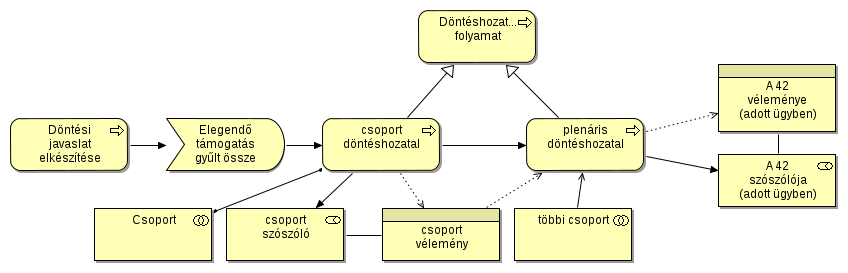
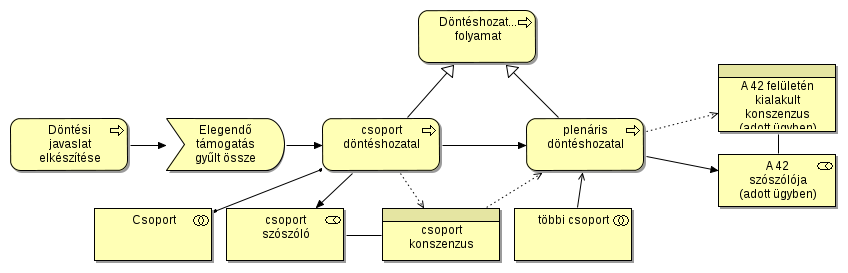
a 42 egyeztetett véleménye

Changed region(s): [[0.8585, 0.293, 0.9811, 0.4689], [0.4599, 0.8791, 0.5825, 0.9084]]

diff --git a/html_out/index.html b/html_out/index.html
@@ -170,8 +170,8 @@
                               <a id="b55e1022"></a>többi csoport
                            </td>
                            <td valign="top">A 42 csoportokból áll. Mindenkit szívesen látunk, bármit gondol is a világról. Ahhoz,
-                              hogy egy javaslatból a 42 egyeztetett véleménye legyen, szükséges az, hogy mindenkinek,
-                              minden csoportnak meg legyen a lehetősége ezt a véleményt formálni.
+                              hogy egy javaslatból a 42 felületén kialakult konszenzus legyen, szükséges az, hogy
+                              mindenkinek, minden csoportnak meg legyen a lehetősége ezt a véleményt formálni.
                               <p></p>Ha sokan leszünk, és azt látjuk hogy nagy a zaj, a csoportokból is csoportokat fogunk
                               képezni.
                               <p></p>De az is lehet, hogy ti akartok ilyen nagyobb csoportokat. Pl. egy már meglévő 600
@@ -264,15 +264,6 @@
                         </tr>
                         <tr>
                            <td valign="top">
-                              <a id="f26f6b9e"></a>Egyeztetett vélemény
-                           </td>
-                           <td valign="top">Egyeztetett véleménynek tekintjük azt a javaslatot, amelyik megnyerte a szavazást.
-                              <p></p>A "fentiek egyike sem" nyerése esetén az az egyeztetett vélemény, hogy nincs megegyezés.
-                              Ilyenkor érdemes még dolgozni egy kicsit a kompromisszum megtalálásán.
-                           </td>
-                        </tr>
-                        <tr>
-                           <td valign="top">
                               <a id="0d56975d"></a>Elegendő támogatás gyűlt össze
                            </td>
                            <td valign="top">Egy javaslat formálissá válásához sqrt(N) vagy 5 támogatás kell, amelyik a kisebb.
@@ -334,6 +325,16 @@
                         </tr>
                         <tr>
                            <td valign="top">
+                              <a id="f26f6b9e"></a>a 42 felületén kialakult konszenzus
+                           </td>
+                           <td valign="top">A 42 felületén kialakult konszenzusnak tekintjük azt a javaslatot, amelyik megnyerte
+                              a szavazást.
+                              <p></p>A "fentiek egyike sem" nyerése esetén az az egyeztetett konszenzus, hogy nincs megegyezés.
+                              Ilyenkor érdemes még dolgozni egy kicsit a kompromisszum megtalálásán.
+                           </td>
+                        </tr>
+                        <tr>
+                           <td valign="top">
                               <a id="3a584426"></a>javaslatok további fényezése
                            </td>
                            <td valign="top">A szószóló a vitaidőszakban is módosíthat a javaslaton, ehhez a támogatók ellenvetésének
@@ -388,23 +389,31 @@
                         </tr>
                         <tr>
                            <td valign="top">
+                              <a id="047d4683"></a>A 42 felületén kialakult konszenzus (adott ügyben)
+                           </td>
+                           <td valign="top">A plenáris döntéshozatal eredményét tekintjök az adott ügyben a 42 felületén kialakult
+                              konszenzusnak
+                           </td>
+                        </tr>
+                        <tr>
+                           <td valign="top">
                               <a id="26a71412"></a>A 42 szószólója (adott ügyben)
                            </td>
                            <td valign="top">A nyertes javaslat szószólója az adott ügyben a 42 szószólója lesz.</td>
                         </tr>
                         <tr>
                            <td valign="top">
-                              <a id="047d4683"></a>A 42 véleménye (adott ügyben)
-                           </td>
-                           <td valign="top">A plenáris döntéshozatal eredményét tekintjök az adott ügyben a 42 véleményének</td>
-                        </tr>
-                        <tr>
-                           <td valign="top">
                               <a id="59228de0"></a>csoport döntéshozatal
                            </td>
                            <td valign="top">A csoporton belüli döntéshozatal a fennt ismertetett módon zajlik. Bemenete a formálissá
-                              váltjavaslat, eredménye a csoport véleménye.
+                              váltjavaslat, eredménye a csoport konszenzusa.
                            </td>
+                        </tr>
+                        <tr>
+                           <td valign="top">
+                              <a id="cd59a5d1"></a>csoport konszenzus
+                           </td>
+                           <td valign="top">A csoport konszenzusa a szavazáson nyertes javaslat lesz.</td>
                         </tr>
                         <tr>
                            <td valign="top">
@@ -414,15 +423,11 @@
                         </tr>
                         <tr>
                            <td valign="top">
-                              <a id="cd59a5d1"></a>csoport vélemény
-                           </td>
-                           <td valign="top">A csoport véleménye a szavazáson nyertes javaslat lesz.</td>
-                        </tr>
-                        <tr>
-                           <td valign="top">
                               <a id="83f83bbb"></a>plenáris döntéshozatal
                            </td>
-                           <td valign="top">A plenáris döntéshozatal bemenete(i) csoport vélemény(ek). Kimenete a 42 véleménye.</td>
+                           <td valign="top">A plenáris döntéshozatal bemenete(i) csoport vélemény(ek). Kimenete a 42 felületén
+                              kialakult konszenzus.
+                           </td>
                         </tr>
                      </tbody>
                   </table>
@@ -718,15 +723,16 @@
                               <td valign="top">
                                  <a id="035dafc7"></a>42 által kihirdetésre
                               </td>
-                              <td valign="top">A 42 legmagasabb szintű döntése. A 42 véleményét tükrözi, amely alapján a 42 megengedi
-                                 a parlamenti pártoknak, és el is várja tőlük, hogy a megfelelő lépéseket megtegyék.
+                              <td valign="top">A 42 legmagasabb szintű döntése. A 42 felületén kialakult konszenzus tükrözi, amely
+                                 alapján a 42 megengedi a parlamenti pártoknak, és el is várja tőlük, hogy a megfelelő
+                                 lépéseket megtegyék.
                               </td>
                            </tr>
                            <tr>
                               <td valign="top">
                                  <a id="aba4e192"></a>42-n belül kihírdetésre
                               </td>
-                              <td valign="top">A 42 egyeztetett véleménye, amivel kapcsolatban nem várjuk hogy a civil játszótéren
+                              <td valign="top">A 42 felületén kialakult konszenzus, amivel kapcsolatban nem várjuk hogy a civil játszótéren
                                  kívül bárki bármit tegyen. (pl. egy véleményfelmérés kimenete)
                               </td>
                            </tr>
